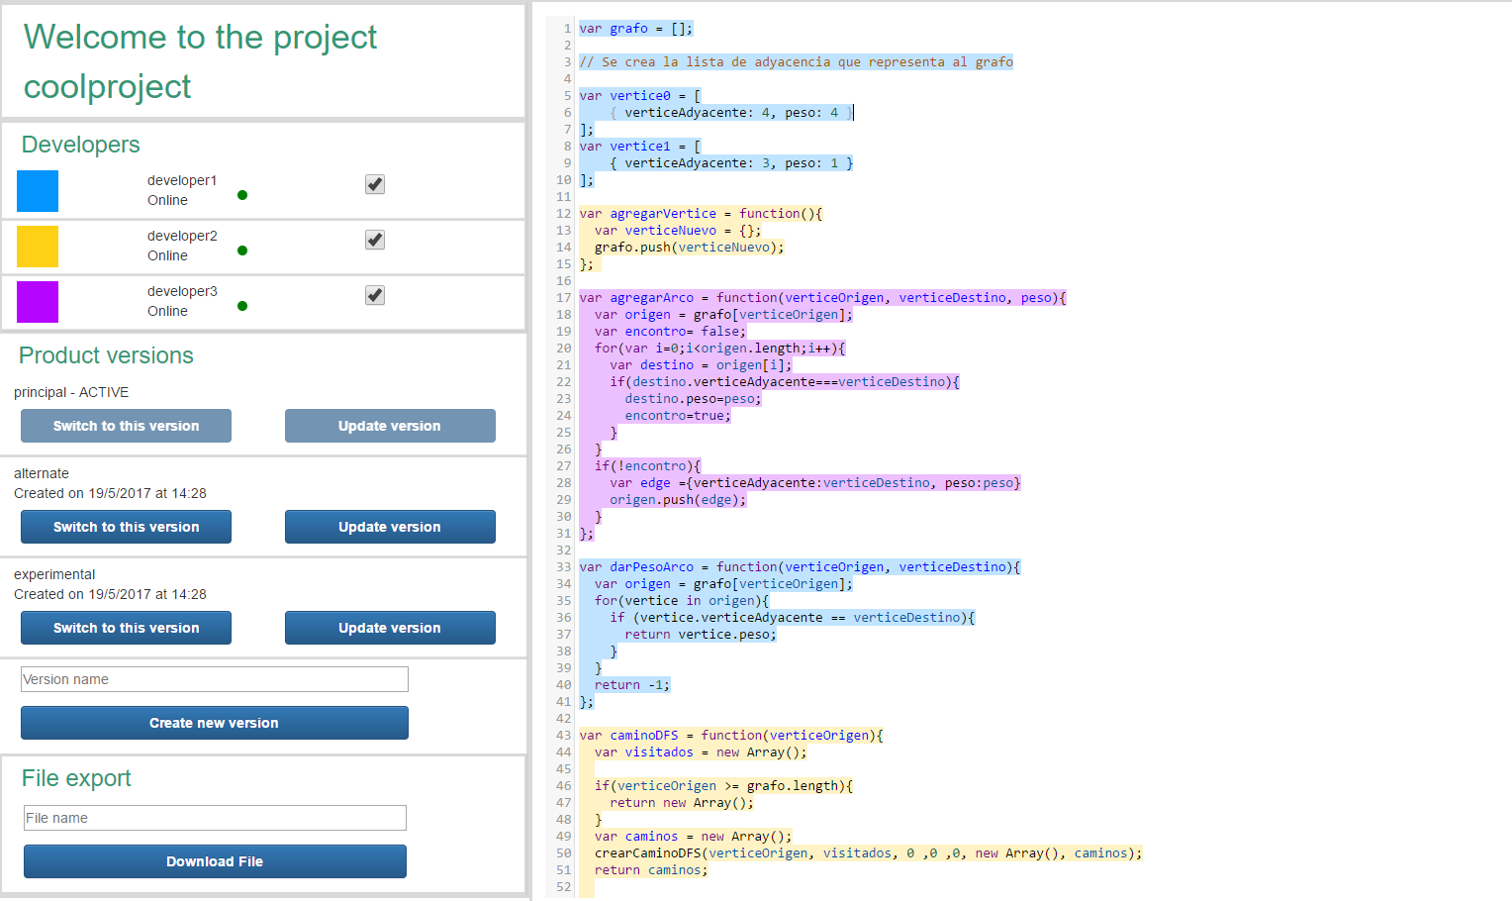
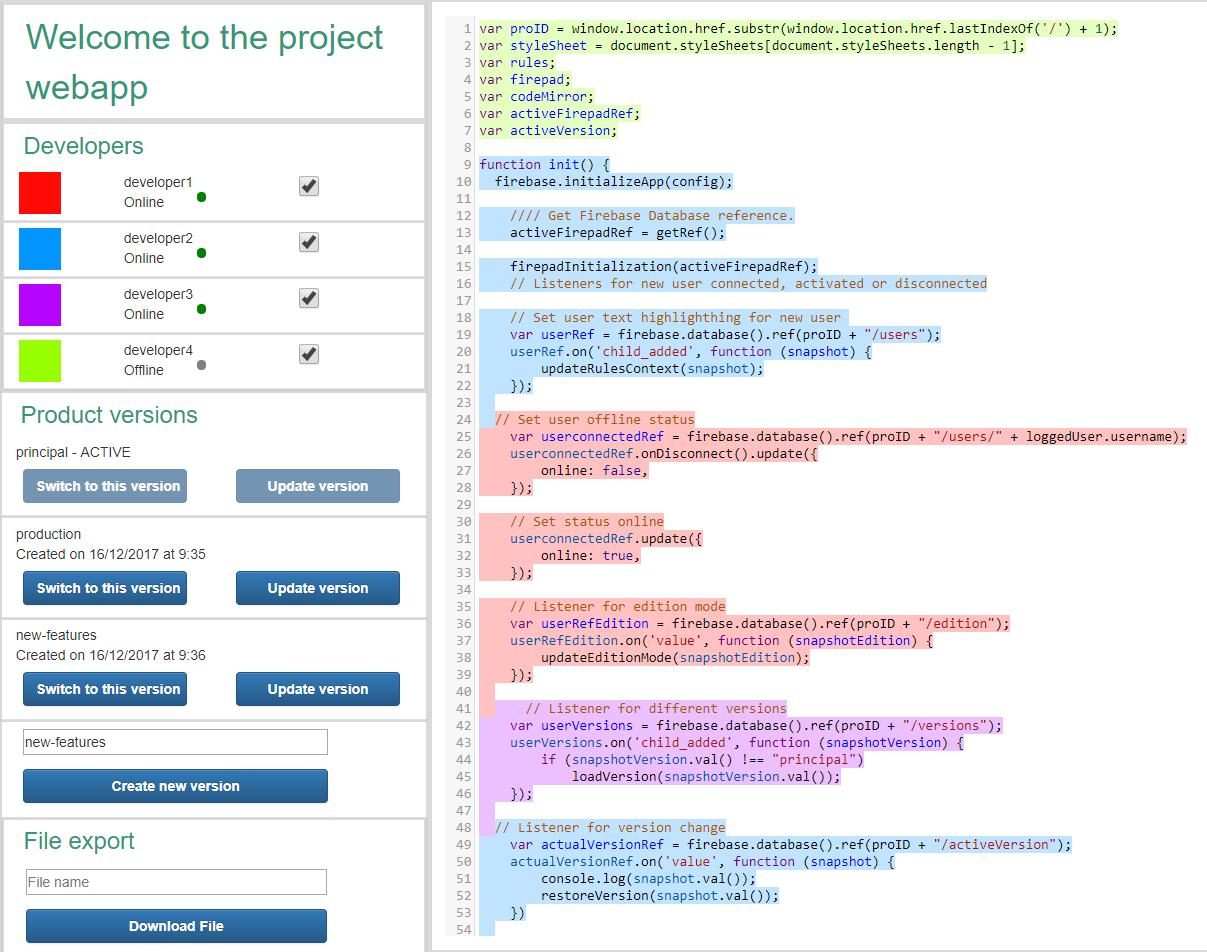
Changed CollabIDE pictures

diff --git a/collabide.tex b/collabide.tex
@@ -6,13 +6,20 @@
 \label{sec:collab-ide}
 
 CollabIDE is a cloud-based integrated development environment presenting collaboration facilities 
-for distributed development teams working on a software project. CollabIDE has three key features which 
-help to reduce the overhead of managing versions or product variants. These features are:
+for distributed development teams working on a software project. \fref{fig:general-view} shows the general view of a project created with the IDE. 
+CollabIDE has three key features which help to reduce the overhead of managing versions or product variants. These features are:
 \begin{enumerate*}[label=(\arabic*)] 
 \item version management, 
 \item product variant management, and 
 \item concurrent development.
 \end{enumerate*}
+
+\begin{figure}[tbp]
+  \centering
+  \includegraphics[width=0.8\textwidth]{img/collabIDEGeneral}
+  \caption{General view of CollabIDE}
+  \label{fig:general-view}
+\end{figure}
 
 %%
 \subsection{Version Management}
